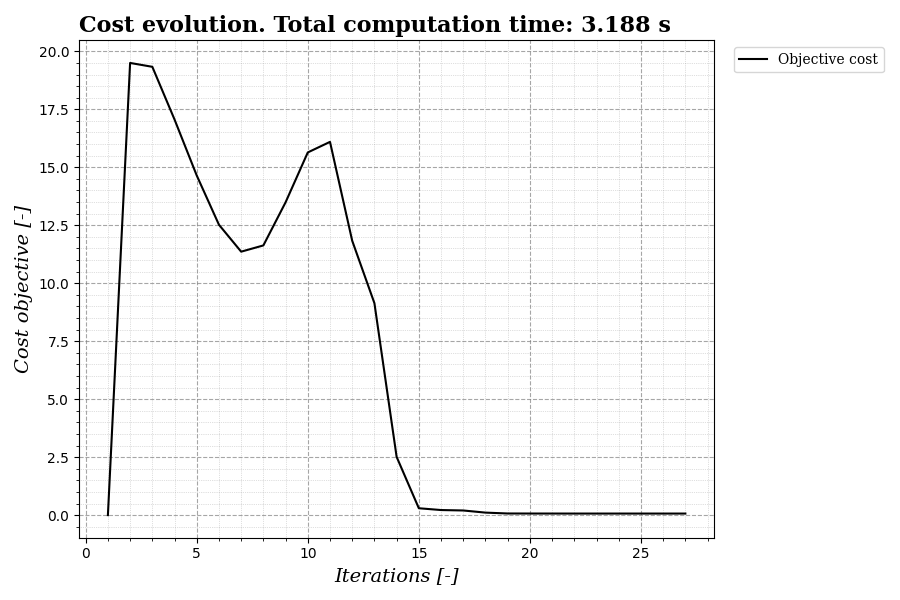
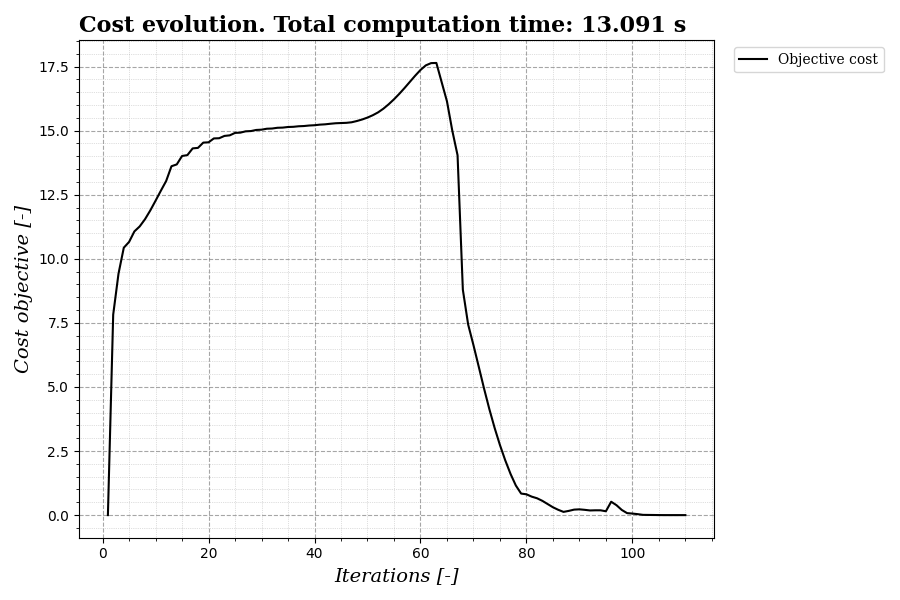
Initial gues by trimming and initial constraints feasible.

diff --git a/code/nonlinearprogramming.py b/code/nonlinearprogramming.py
@@ -23,6 +23,80 @@ class NLP_CRUISE:
             uk = ca.MX.sym(f"u{k}", nu)
             w = ca.vertcat(w, xk, uk)
         return w
+    
+    @staticmethod
+    def COMPUTE_TRIM(ac,at,sim):
+        # Decision variables for trimming.
+        y = ca.SX.sym('y', 3) 
+        alpha_sym = y[0]
+        dt_sym    = y[1]
+        de_sym    = y[2]
+
+        # Known physical parameters. Target height, velocity and mass.
+        V = sim.Vtp  
+        h = -sim.w0[5] 
+        m = sim.w0[6]
+        
+        # Calm wind atmosphere conditions.
+        rho = at.ISA_RHO(h) 
+        q_bar = 0.5 * rho * V**2
+        
+        # Horizontal flight implies null flight path angle.
+        theta_sym = alpha_sym 
+
+        # AERODYNAMIC COEFFICIENTS
+        CL = ac.CL_0 + ac.CL_alpha * alpha_sym + ac.CL_de * de_sym
+        CD = ac.CD_0 + ac.K * CL**2
+        Cm = ac.Cm_0 + ac.Cm_alpha * alpha_sym + ac.Cm_de * de_sym
+
+        # AERODYNAMIC FORCES AND MOMENT
+        L = q_bar * ac.S * CL
+        D = q_bar * ac.S * CD
+        M_aero = q_bar * ac.S * ac.c * Cm
+
+        # PROPULSIVE FORCES AND MOMENT
+        T_max, M_T_max = ac.PROPULSIVE_FORCES_MOMENTS(V, ac.RPM, rho, alpha_sym)
+        T = dt_sym * T_max
+        M_prop = dt_sym * M_T_max
+
+        # EQUATIONS (simplified using small angles)
+        Fx = T * ca.cos(alpha_sym) - D 
+        Fz = L + T * ca.sin(alpha_sym) - m * at.g 
+        My = M_aero + M_prop
+
+        # State boundaries.
+        lbx = [np.deg2rad(-5), 0.0, np.deg2rad(-20)] # Límites: alpha, dt, de
+        ubx = [np.deg2rad(15), 1.0, np.deg2rad(20)] 
+
+        # NLP PROBLEM DEFINITION
+        f = ca.sumsqr(ca.vertcat(Fx, Fz, My))
+        nlp = {'x': y, 'f': f}
+        solver = ca.nlpsol('trim_solver_nlp', 'ipopt', nlp)
+
+        # INITIAL GUESS
+        y0 = np.array([np.deg2rad(2.0), 0.5, 0.0]) 
+
+        # SOLVER
+        sol = solver(
+            x0=y0,   
+            lbx=lbx, 
+            ubx=ubx  
+        )
+        
+        # RESULTS AND DECOMPOSITION INTO w0
+        y_opt = sol['x'].full().flatten()
+        alpha_trim = y_opt[0]
+        dt_trim    = y_opt[1]
+        de_trim    = y_opt[2]
+        
+        u = V * np.cos(alpha_trim)
+        w = V * np.sin(alpha_trim)
+        
+        w0_state = np.array([u, w, 0.0, alpha_trim, 0.0, -h, m])
+        w0_control = [dt_trim, de_trim]
+        w0 = ca.vertcat(w0_state, w0_control)
+        
+        return w0
         
     @staticmethod
     def DYNAMIC_EQUATIONS(w,ac,at,sim):
@@ -125,8 +199,8 @@ class NLP_CRUISE:
         ubg_path.append(0)   
 
         # TARGET ALTITUDE CONSTRAINT
-        href_l = -sim.w0[5] - 2.50
-        href_u = -sim.w0[5] + 2.50
+        href_l = -sim.w0[5] - 2.5
+        href_u = -sim.w0[5] + 2.5
         hi = -wi[5]
 
         # Path constraints. Inequality constraints.
@@ -142,7 +216,7 @@ class NLP_CRUISE:
     @staticmethod
     def INITIAL_AND_FINAL_CONSTRAINTS(w,w0,wf,N):
         # INITIAL STATE CONSTRAINTS
-        w_0 = w[:7]
+        w_0 = w[:9]
         g_0 = []
         lbg_0 = []
         ubg_0 = []
@@ -192,12 +266,18 @@ class NLP_CRUISE:
         # STATE AND CONTROL VECTORS
         w = NLP_CRUISE.STATES_CONTROL_VECTOR(x,u,N)
 
-        # INITIAL STATE AND CONTROL VECTOR
-        w0 = []
+        # Computation of trim condition.
+        w0_trim_node = NLP_CRUISE.COMPUTE_TRIM(ac,at,sim)
+        sim.w0 = w0_trim_node[:9]
+        print(sim.w0)
+        
+        # Reconstruction of full initial guess.
+        w0_list = []
         for k in range(N):
-            w0.append(sim.w0[0:9])
+            # Trim node us as planar function.
+            w0_list.append(w0_trim_node) 
     
-        w0 = np.concatenate(w0)
+        w0 = np.concatenate(w0_list)
 
         # DYNAMIC COSNTRAINTS HANDLING
         g_dyn = []
@@ -288,5 +368,5 @@ class NLP_CRUISE:
             hj = -wj[5]
 
             # COST FUCNTIONAL (Minimisation of gamma, gamma dot and controls)
-            J += dT/2 * (wg*(gi**2 + gj**2) / g_max**2 + wg_dot*(gi_dot**2 + gj_dot**2) / g_dot_max**2  + wh*((hi - href)**2 / href**2 + (hj - href)**2 / href**2)) + wde*(wj[8] - wi[8])**2 / (sim.dT*de_max)**2 + wdt*(wj[7] - wi[7])**2 / sim.dT**2
+            J += dT/2 * (wg*(gi**2 + gj**2) / g_max**2 + wg_dot*(gi_dot**2 + gj_dot**2) / g_dot_max**2  + wh*((hi - href)**2 / href**2 + (hj - href)**2 / href**2)) + wde*ca.sumsqr((wj[8] - wi[8]) / (sim.dT*de_max)) + wdt*ca.sumsqr((wj[7] - wi[7]) / sim.dT)
         return J 

diff --git a/code/main_IPOPT.py b/code/main_IPOPT.py
@@ -50,7 +50,7 @@ sim.x0[7] = aircraft.BEM + aircraft.FM + aircraft.PM
 x0 = sim.x0[1:8]
 
 # Initial state vector
-sim.w0 = ca.vertcat(x0, [0.837, -0.0742])
+sim.w0 = x0
 
 ###########################################################
 ##          PROBLEM DEFINITION AND SOLUTION              ##

diff --git a/code/simulation.py b/code/simulation.py
@@ -47,7 +47,7 @@ class Sim:
             self.x0[3] = 0.0
 
             # Initial pitch. Equal to initial AoA.
-            self.x0[4] = np.arctan2(wa,ua)
+            self.x0[4] = np.abs(np.arctan2(wa,ua))
 
     
     @classmethod
